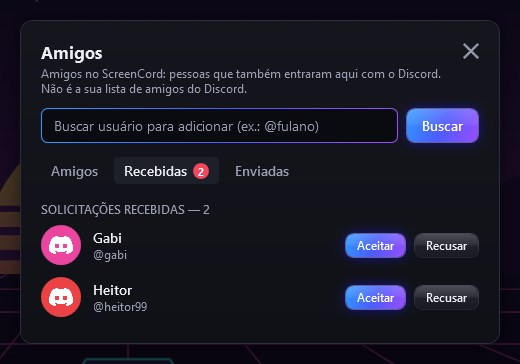
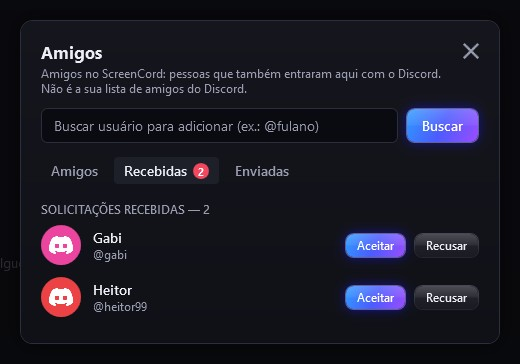
feat: prints novas, salas locais, idiomas e apoio no Ko-fi (#6)
- prints refeitas no visual atual (botões Apoiar e idioma no cabeçalho)
- compartilhar tela numa sala local, com 1080p a 60 fps
- novas seções com print: salas locais (sem servidor e sem conta) e idiomas
- recursos: com ou sem conta, salas locais, três idiomas e gratuito
- perguntas: conta do Discord opcional e a permissão de administrador do firewall
- cartão de apoio no Ko-fi depois do download, e link no rodapé

diff --git a/index.html b/index.html
@@ -4,7 +4,7 @@
 <meta charset="utf-8">
 <meta name="viewport" content="width=device-width, initial-scale=1">
 <title>ScreenCord</title>
-<meta name="description" content="Entre com o Discord, monte grupos com seus amigos e compartilhe a tela em tempo real.">
+<meta name="description" content="Entre com o Discord, monte grupos com seus amigos e compartilhe a tela em tempo real. Ou crie uma sala local, sem conta e sem servidor.">
 <link rel="icon" type="image/png" href="icon.png">
 <style>
   :root {
@@ -175,6 +175,28 @@
   details p { margin: 0; padding: 0 18px 16px; color: var(--muted); }
 
   .cta { text-align: center; padding: 64px 0 24px; }
+
+  /* Apoio no Ko-fi: o mesmo coral do botão do app. */
+  .kofi { display: flex; align-items: center; gap: 20px; padding: 22px 24px; }
+  .kofi .cup {
+    flex: none; width: 48px; height: 48px; border-radius: 14px; display: grid; place-items: center; color: #fff;
+    background: linear-gradient(135deg, #ff5e5b, #ff8a4c);
+    box-shadow: 0 0 18px rgba(255, 94, 91, .45), inset 0 1px 0 rgba(255, 255, 255, .3);
+  }
+  .kofi .cup svg { width: 24px; height: 24px; }
+  .kofi h3 { margin: 0 0 2px; font-size: 1.05rem; }
+  .kofi p { margin: 0; color: var(--muted); font-size: .95rem; }
+  .kofi .btn-kofi { margin-left: auto; flex: none; }
+  .btn-kofi {
+    position: relative; display: inline-flex; align-items: center; gap: 8px;
+    padding: 10px 18px; border-radius: 10px; color: #fff; text-decoration: none; font-weight: 600;
+    background: linear-gradient(135deg, #ff5e5b, #ff8a4c); border: 1px solid rgba(255, 255, 255, .33);
+    box-shadow: 0 0 14px rgba(255, 94, 91, .5);
+    transition: box-shadow .2s, transform .2s, filter .2s;
+  }
+  .btn-kofi:hover { box-shadow: 0 0 26px rgba(255, 94, 91, .85); filter: brightness(1.08); transform: translateY(-1px); }
+  .btn-kofi:focus-visible { outline: 2px solid var(--text); outline-offset: 3px; }
+  .btn-kofi svg { width: 18px; height: 18px; }
   .cta h2 { font-size: clamp(1.6rem, 4vw, 2.1rem); margin-bottom: 8px; }
   .cta p { color: var(--muted); margin: 0 0 24px; }
 
@@ -184,6 +206,8 @@
   }
   @media (max-width: 640px) {
     .features, .steps { grid-template-columns: 1fr; }
+    .kofi { flex-wrap: wrap; }
+    .kofi .btn-kofi { margin-left: 0; }
     header.hero { padding-top: 48px; }
   }
   @media (max-width: 560px) {
@@ -206,7 +230,7 @@
       </div>
     </div>
     <h1>Screen<span class="grad">Cord</span></h1>
-    <p class="tagline">Chame a galera para um grupo e assista à tela de quem está jogando, com som, como se estivesse do lado. Entra com o Discord, sem criar conta nova.</p>
+    <p class="tagline">Chame a galera para um grupo e assista à tela de quem está jogando, com som, como se estivesse do lado. Entra com o Discord, sem criar conta nova, ou usa sem conta numa sala local.</p>
     <a id="download" class="btn" href="https://github.com/miguelsoeth/screencord/releases/latest" aria-disabled="true">
       <svg width="20" height="20" viewBox="0 0 24 24" fill="none" stroke="currentColor" stroke-width="2.2" stroke-linecap="round" stroke-linejoin="round" aria-hidden="true"><path d="M12 3v12"/><path d="m7 10 5 5 5-5"/><path d="M5 21h14"/></svg>
       <span id="download-label">Baixar para Windows</span>
@@ -215,7 +239,7 @@
   </div>
   <div class="hero-shot">
     <img class="shot" src="img/sala-ao-vivo.jpg" width="1280" height="760"
-         alt="Janela do ScreenCord: à esquerda, a transmissão ao vivo de um jogo de corrida; à direita, os grupos com quem está conectado e o selo AO VIVO.">
+         alt="Janela do ScreenCord: à esquerda, a transmissão ao vivo de um jogo de corrida; à direita, os grupos com quem está conectado e o selo AO VIVO; no alto, os botões Apoiar, amigos e idioma.">
   </div>
 </header>
 
@@ -226,11 +250,11 @@
     <div class="steps">
       <div class="panel">
         <h3>Entre com o Discord</h3>
-        <p>Um clique abre o navegador; você autoriza e pronto. Sua senha nunca passa pelo app.</p>
+        <p>Um clique abre o navegador; você autoriza e pronto. Sua senha nunca passa pelo app. Ou use sem conta, só com um nome.</p>
       </div>
       <div class="panel">
         <h3>Monte um grupo</h3>
-        <p>Adicione os amigos e crie salas como "Jogatina de sexta". Você vê na hora quem está online.</p>
+        <p>Adicione os amigos e crie salas como "Jogatina de sexta", ou uma sala local para quem está na mesma rede.</p>
       </div>
       <div class="panel">
         <h3>Clique em AO VIVO</h3>
@@ -245,14 +269,14 @@
         <h3>Compartilhe o jogo inteiro ou só uma janela</h3>
         <p>Escolha o que mostrar e a qualidade. O resto é com o app.</p>
         <ul>
-          <li>540p a 60 fps para jogos rápidos, ou 720p a 30 fps para mais nitidez</li>
+          <li>Até 1080p a 60 fps nas salas locais; com os amigos pela internet, 540p a 30 fps</li>
           <li>Som do computador junto, se você quiser</li>
-          <li>A qualidade se ajusta sozinha à sua internet</li>
+          <li>A qualidade se ajusta sozinha à sua conexão</li>
           <li>Troque a tela ou a qualidade sem derrubar quem está assistindo</li>
         </ul>
       </div>
       <img class="shot picker" src="img/compartilhar.jpg" width="560" height="600" loading="lazy"
-           alt="Janela Compartilhar tela: escolha entre tela ou janela, resolução, taxa de quadros e áudio.">
+           alt="Janela Compartilhar tela numa sala local: Tela 1 escolhida, 1080p e 60 fps marcados, qualidade automática até 5 Mbps direto entre os computadores, e áudio ligado.">
     </div>
 
     <div class="showcase flip">
@@ -268,6 +292,35 @@
       <img class="shot picker" src="img/amigos.jpg" width="520" height="364" loading="lazy"
            alt="Menu de amigos do ScreenCord com busca por nome de usuário e solicitações recebidas para aceitar ou recusar.">
     </div>
+
+    <div class="showcase">
+      <div class="showcase-text">
+        <h3>Salas locais: sem servidor e sem conta</h3>
+        <p>Na mesma rede, a sala fica no seu computador e a tela vai direto para quem assiste, na qualidade máxima.</p>
+        <ul>
+          <li>Funciona em LAN, Hamachi, Radmin e Tailscale</li>
+          <li>As salas da rede aparecem sozinhas na lista; se não, entre pelo IP</li>
+          <li>Tudo cifrado entre os computadores</li>
+          <li>"Usar sem conta" entra só com um nome, sem Discord</li>
+        </ul>
+      </div>
+      <img class="shot picker" src="img/sala-local.jpg" width="441" height="415" loading="lazy"
+           alt="Janela Criar sala local: nome da sala, botão Criar e, abaixo, o campo para entrar numa sala local pelo IP.">
+    </div>
+
+    <div class="showcase flip">
+      <div class="showcase-text">
+        <h3>Em português, inglês ou espanhol</h3>
+        <p>Troque o idioma quando quiser, no login ou no cabeçalho: a tela muda na hora.</p>
+        <ul>
+          <li>O instalador pergunta o idioma na primeira instalação</li>
+          <li>Sem escolha, vale o idioma do Windows</li>
+          <li>Entre com o Discord ou use sem conta, só nas salas locais</li>
+        </ul>
+      </div>
+      <img class="shot picker" src="img/login.jpg" width="470" height="512" loading="lazy"
+           alt="Tela inicial do ScreenCord com o menu de idiomas aberto (Português, English, Español) e os botões Conectar com Discord, Usar sem conta e Apoie no Ko-fi.">
+    </div>
   </section>
 
   <section>
@@ -275,13 +328,18 @@
     <div class="features">
       <div class="panel">
         <div class="icon"><svg viewBox="0 0 24 24" fill="none" stroke="currentColor" stroke-width="2" stroke-linecap="round" stroke-linejoin="round" aria-hidden="true"><path d="M15 3h4a2 2 0 0 1 2 2v14a2 2 0 0 1-2 2h-4"/><path d="m10 17 5-5-5-5"/><path d="M15 12H3"/></svg></div>
-        <h3>Login com o Discord</h3>
-        <p>Entra pelo navegador, sem a senha passar pelo app.</p>
+        <h3>Com ou sem conta</h3>
+        <p>Entre com o Discord pelo navegador, sem a senha passar pelo app, ou só com um nome nas salas locais.</p>
       </div>
       <div class="panel">
         <div class="icon"><svg viewBox="0 0 24 24" fill="none" stroke="currentColor" stroke-width="2" stroke-linecap="round" stroke-linejoin="round" aria-hidden="true"><circle cx="9" cy="8" r="3.5"/><path d="M2.5 20a6.5 6.5 0 0 1 13 0"/><path d="M16 4.5a3.5 3.5 0 0 1 0 7"/><path d="M18.5 14a6.5 6.5 0 0 1 3 6"/></svg></div>
         <h3>Grupos</h3>
         <p>Salas com seus amigos, mostrando quem está conectado.</p>
+      </div>
+      <div class="panel">
+        <div class="icon"><svg viewBox="0 0 24 24" fill="none" stroke="currentColor" stroke-width="2" stroke-linecap="round" stroke-linejoin="round" aria-hidden="true"><rect x="9" y="2" width="6" height="6" rx="1"/><rect x="2" y="16" width="6" height="6" rx="1"/><rect x="16" y="16" width="6" height="6" rx="1"/><path d="M12 8v4"/><path d="M5 16v-4h14v4"/></svg></div>
+        <h3>Salas locais</h3>
+        <p>Na LAN, Hamachi, Radmin ou Tailscale, direto entre os computadores, até 1080p a 60 fps.</p>
       </div>
       <div class="panel">
         <div class="icon"><svg viewBox="0 0 24 24" fill="none" stroke="currentColor" stroke-width="2" stroke-linecap="round" stroke-linejoin="round" aria-hidden="true"><rect x="2" y="3" width="20" height="14" rx="2"/><path d="M8 21h8"/><path d="M12 17v4"/></svg></div>
@@ -299,9 +357,19 @@
         <p>Assista na janela do app ou em tela cheia com F11 ou um clique duplo.</p>
       </div>
       <div class="panel">
+        <div class="icon"><svg viewBox="0 0 24 24" fill="none" stroke="currentColor" stroke-width="2" stroke-linecap="round" stroke-linejoin="round" aria-hidden="true"><path d="m5 8 6 6"/><path d="m4 14 6-6 2-3"/><path d="M2 5h12"/><path d="M7 2h1"/><path d="m22 22-5-10-5 10"/><path d="M14 18h6"/></svg></div>
+        <h3>Três idiomas</h3>
+        <p>Português, inglês e espanhol, trocando na hora.</p>
+      </div>
+      <div class="panel">
         <div class="icon"><svg viewBox="0 0 24 24" fill="none" stroke="currentColor" stroke-width="2" stroke-linecap="round" stroke-linejoin="round" aria-hidden="true"><path d="M13 2 4 14h7l-1 8 9-12h-7z"/></svg></div>
         <h3>Leve</h3>
         <p>Usa a placa de vídeo e se atualiza sozinho.</p>
+      </div>
+      <div class="panel">
+        <div class="icon"><svg viewBox="0 0 24 24" fill="none" stroke="currentColor" stroke-width="2" stroke-linecap="round" stroke-linejoin="round" aria-hidden="true"><path d="M17 8h1a4 4 0 1 1 0 8h-1"/><path d="M3 8h14v9a4 4 0 0 1-4 4H7a4 4 0 0 1-4-4Z"/><path d="M6 2v2"/><path d="M10 2v2"/><path d="M14 2v2"/></svg></div>
+        <h3>Gratuito</h3>
+        <p>Sem anúncios e sem assinatura. Se curtir, dá para apoiar no Ko-fi.</p>
       </div>
     </div>
   </section>
@@ -313,12 +381,20 @@
       <p>Não. Os amigos são de quem também entrou no ScreenCord: o Discord não deixa outros apps lerem a sua lista. Mande o link desta página para a galera e adicione cada um pelo @.</p>
     </details>
     <details class="panel">
+      <summary>Preciso de conta no Discord?</summary>
+      <p>Só para os grupos com amigos pela internet. Para assistir junto na mesma rede (LAN, Hamachi, Radmin ou Tailscale), escolha <strong>Usar sem conta</strong> na tela inicial e entre numa sala local só com um nome.</p>
+    </details>
+    <details class="panel">
       <summary>O app vê a minha senha ou as minhas mensagens?</summary>
       <p>Não. O login acontece no site do Discord, e o app pede só a permissão de ler o seu nome e a sua foto.</p>
     </details>
     <details class="panel">
       <summary>O Windows disse "O Windows protegeu o computador". E agora?</summary>
-      <p>O instalador ainda não é assinado. Clique em <strong>Mais informações → Executar assim mesmo</strong>. Ele instala só para o seu usuário, sem pedir administrador.</p>
+      <p>O instalador ainda não é assinado. Clique em <strong>Mais informações → Executar assim mesmo</strong>. Ele instala só para o seu usuário.</p>
+    </details>
+    <details class="panel">
+      <summary>Por que o instalador pede permissão de administrador?</summary>
+      <p>Só na primeira instalação, para liberar as salas locais no Firewall do Windows. Se você recusar, a instalação segue normalmente e o app oferece o botão <strong>Liberar no firewall</strong> quando você criar ou entrar numa sala local.</p>
     </details>
     <details class="panel">
       <summary>Funciona em qual sistema?</summary>
@@ -335,6 +411,20 @@
     </a>
   </section>
 
+  <section aria-labelledby="apoie">
+    <div class="panel kofi">
+      <div class="cup"><svg viewBox="0 0 24 24" fill="none" stroke="currentColor" stroke-width="2" stroke-linecap="round" stroke-linejoin="round" aria-hidden="true"><path d="M17 8h1a4 4 0 1 1 0 8h-1"/><path d="M3 8h14v9a4 4 0 0 1-4 4H7a4 4 0 0 1-4-4Z"/><path d="M6 2v2"/><path d="M10 2v2"/><path d="M14 2v2"/></svg></div>
+      <div>
+        <h3 id="apoie">Curtiu? Apoie o ScreenCord</h3>
+        <p>O app é gratuito. Um café no Ko-fi ajuda a manter o servidor no ar e as novidades saindo.</p>
+      </div>
+      <a class="btn-kofi" href="https://ko-fi.com/miguelsoeth" target="_blank" rel="noopener">
+        <svg viewBox="0 0 24 24" fill="none" stroke="currentColor" stroke-width="2.2" stroke-linecap="round" stroke-linejoin="round" aria-hidden="true"><path d="M19 14c1.49-1.46 3-3.21 3-5.5A5.5 5.5 0 0 0 16.5 3c-1.76 0-3 .5-4.5 2-1.5-1.5-2.74-2-4.5-2A5.5 5.5 0 0 0 2 8.5c0 2.3 1.5 4.05 3 5.5l7 7Z"/></svg>
+        Apoie no Ko-fi
+      </a>
+    </div>
+  </section>
+
   <section id="versions" hidden>
     <h2>Versões</h2>
     <table>
@@ -345,7 +435,7 @@
 </main>
 
 <footer>
-  <a href="https://github.com/miguelsoeth/screencord/releases">Todas as versões no GitHub</a>
+  <a href="https://github.com/miguelsoeth/screencord/releases">Todas as versões no GitHub</a> · <a href="https://ko-fi.com/miguelsoeth" target="_blank" rel="noopener">Apoie no Ko-fi</a>
 </footer>
 
 <script>
